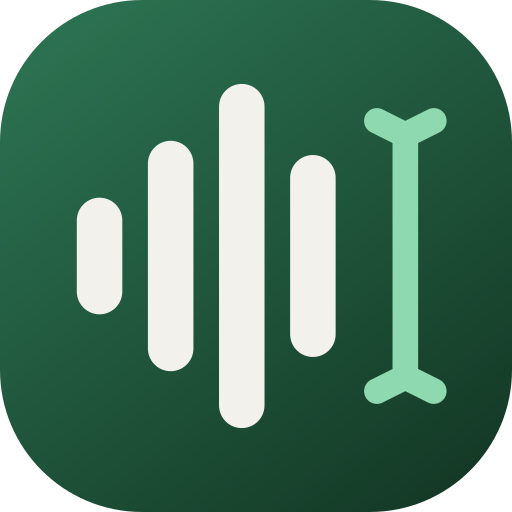
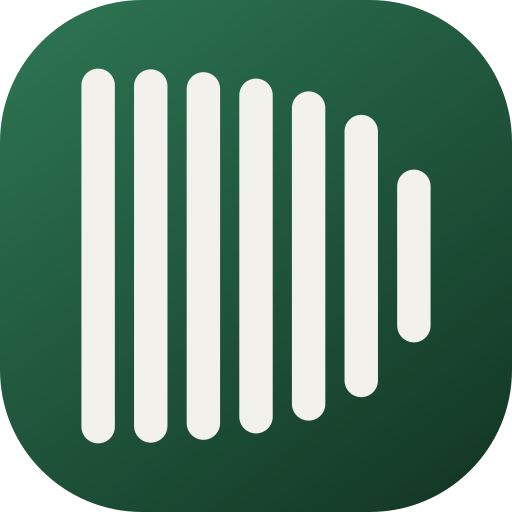
Ícone: barras de onda sonora formando a letra D
A haste é a barra mais alta e as seguintes fecham a barriga da letra.
A mesma marca substitui o logo no topo do app.

Changed region(s): [[0.125, 0.125, 0.5312, 0.875], [0.5625, 0.1562, 0.875, 0.8438]]

diff --git a/app/src/main/java/company/cubo/dita/Ui.kt b/app/src/main/java/company/cubo/dita/Ui.kt
@@ -108,9 +108,9 @@ class Glyph(ctx: Context, private val kind: Int, color: Int) : View(ctx) {
                 c.drawCircle(9f * u, 16f * u, 2.9f * u, p)
             }
             WAVE -> {
-                p.strokeWidth = 2.4f * u
-                line(4f, 10.5f, 4f, 13.5f); line(8f, 8f, 8f, 16f); line(12f, 4.5f, 12f, 19.5f)
-                line(16f, 8f, 16f, 16f); line(20f, 10.5f, 20f, 13.5f)
+                // a marca: barras de onda sonora que desenham um D
+                p.strokeWidth = 2.3f * u
+                line(4.6f, 3.8f, 4.6f, 20.2f); line(8.3f, 3.9f, 8.3f, 20.1f); line(12.0f, 4.3f, 12.0f, 19.7f); line(15.7f, 5.3f, 15.7f, 18.7f); line(19.4f, 8.3f, 19.4f, 15.7f)
             }
             MIC -> {
                 rect.set(9.5f * u, 4f * u, 14.5f * u, 14f * u)
